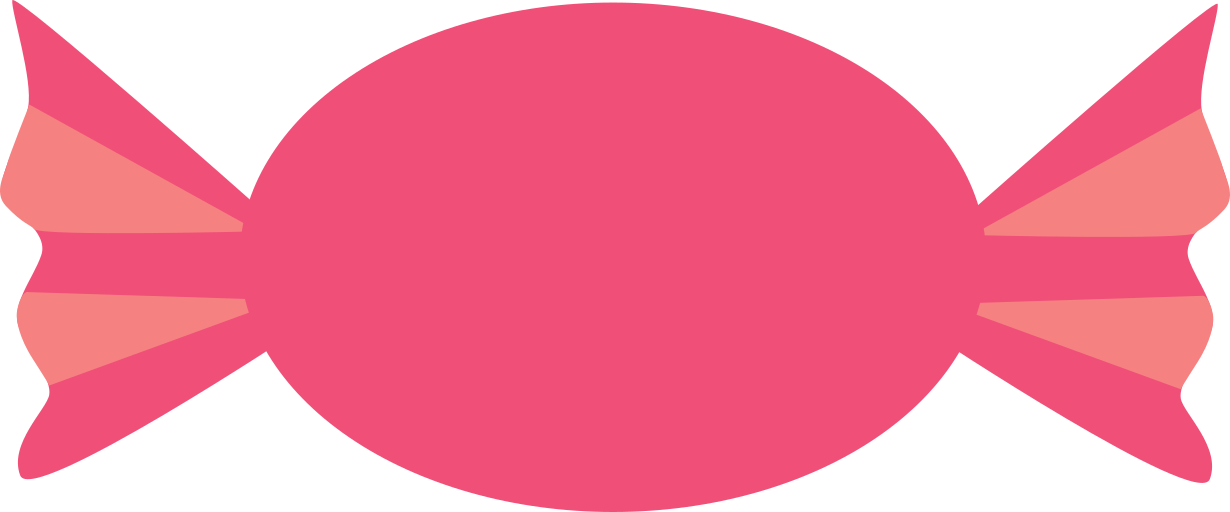
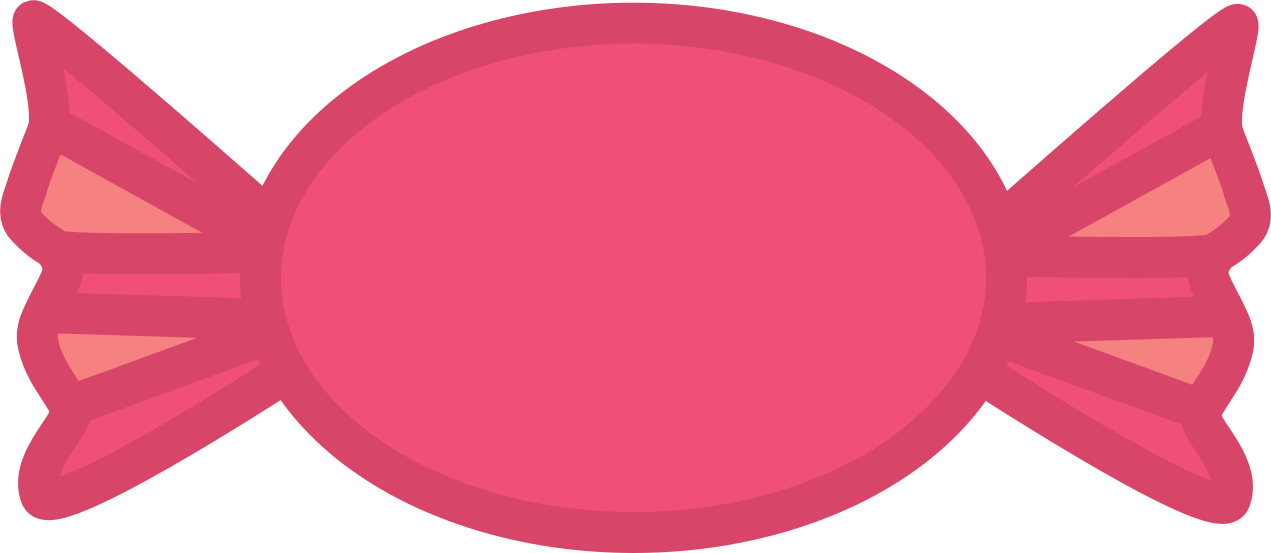
Main Menu + other UI
Main Menu button changes, Pause menu changes, All icons renovated

diff --git a/SilnikZTGK/CookingStation/Layers/GuiLayer/Panels/PauseMenuPanel.cpp b/SilnikZTGK/CookingStation/Layers/GuiLayer/Panels/PauseMenuPanel.cpp
@@ -61,36 +61,43 @@ void PauseMenuPanel::Draw(float baseScale) {
     // 1. Poszarzenie tła ekranu (lekki tint)
     Gui::Panel({ 0.0f, 0.0f }, { (float)windowSize.first, (float)windowSize.second }, { 0.05f, 0.05f, 0.05f, 0.75f }, 0.0f);
 
-    // Jeśli ustawienia są widoczne, rysuj TYLKO je i wyjdź
     if (m_SettingsPanel->IsVisible()) {
         m_SettingsPanel->Draw(baseScale);
         return;
     }
 
     // 2. Pobranie tekstur przez AssetManager
-    auto boardTex = AssetManager::GetTexture("assets://UI/cuttingBoardPrototypeVert.png");
-    auto playTex = AssetManager::GetTexture("assets://UI/playButton.png");
-    auto settingsTex = AssetManager::GetTexture("assets://UI/creditsButton.png");
-    auto exitTex = AssetManager::GetTexture("assets://UI/exitButton.png");
+    auto boardTex = AssetManager::GetTexture("assets://UI/cuttingBoard.png");
+    auto resumeTex = AssetManager::GetTexture("assets://UI/resumeButton.png");
+    auto settingsTex = AssetManager::GetTexture("assets://UI/settingsButtonCarrot.png");
+    auto menuTex = AssetManager::GetTexture("assets://UI/menuButton.png");
+    auto pausedTextTex = AssetManager::GetTexture("assets://UI/pausedText.png");
 
     glm::vec2 uv0 = { 0.0f, 1.0f };
     glm::vec2 uv1 = { 1.0f, 0.0f };
 
-    // NAPRAWA: Zamiast sztywnych wielkości, obliczamy idealne proporcje z tekstury (tak jak w MainMenu!)
     auto getAspectSize = [&](const std::shared_ptr<Texture>& tex, float targetHeight) -> glm::vec2 {
         if (tex && tex->GetRendererID() != 0) {
             float aspect = (float)tex->GetWidth() / (float)tex->GetHeight();
             return { targetHeight * aspect, targetHeight };
         }
-        return { targetHeight * 3.0f, targetHeight }; // Zabezpieczenie, gdyby brakło pliku
+        return { targetHeight * 3.0f, targetHeight };
         };
 
-    // 3. Rysowanie tła menu (Deska do krojenia) - dynamiczna szerokość chroniąca jakość
-    float boardHeight = 450.0f * baseScale;
+    // ===================================
+    // KONTROLA PRZESUNIĘCIA CAŁEGO MENU
+    // ===================================
+    // Ta zmienna obniża WSZYSTKO (deskę, napis i przyciski) proporcjonalnie w dół.
+    // Jeśli 60.0f to za mało, zmień na np. 80.0f lub 100.0f!
+    float visualOffsetY = 60.0f * baseScale;
+
+
+    // 3. Rysowanie tła menu (Deska do krojenia)
+    float boardHeight = 600.0f * baseScale; // Tutaj Twoja powiększona deska
     glm::vec2 boardSize = getAspectSize(boardTex, boardHeight);
 
     float boardX = (windowSize.first - boardSize.x) * 0.5f;
-    float boardY = (windowSize.second - boardSize.y) * 0.5f;
+    float boardY = (windowSize.second - boardSize.y) * 0.5f + visualOffsetY; // <-- OBNIŻAMY
 
     if (boardTex) {
         Renderer2D::DrawQuad({ boardX, boardY }, boardSize, boardTex->GetRendererID(), { 1.0f, 1.0f, 1.0f, 0.90f }, uv0, uv1);
@@ -99,17 +106,31 @@ void PauseMenuPanel::Draw(float baseScale) {
         Gui::Panel({ boardX, boardY }, boardSize, { 0.7f, 0.5f, 0.3f, 0.85f }, 20.0f);
     }
 
-    // 4. Parametry i pozycjonowanie przycisków 
-    float btnHeight = 85.0f * baseScale;
-    float btnGap = 20.0f * baseScale;
+    // 3.5 Rysowanie napisu "PAUSED"
+    if (pausedTextTex && pausedTextTex->GetRendererID() != 0) {
+        float textAspect = (float)pausedTextTex->GetWidth() / (float)pausedTextTex->GetHeight();
 
-    // Każdy przycisk wylicza swoją własną, idealną szerokość!
-    glm::vec2 playSize = getAspectSize(playTex, btnHeight);
+        float targetTextWidth = boardSize.x * 0.8f;
+        glm::vec2 textSize = { targetTextWidth, targetTextWidth / textAspect };
+
+        float textGap = 50.0f * baseScale;
+
+        float textX = (windowSize.first - textSize.x) * 0.5f;
+        float textY = boardY - textSize.y - textGap; // Ponieważ boardY zjechało w dół, napis automatycznie też!
+
+        Renderer2D::DrawQuad({ textX, textY }, textSize, pausedTextTex->GetRendererID(), { 1.0f, 1.0f, 1.0f, 1.0f }, uv0, uv1);
+    }
+
+    // 4. Parametry i pozycjonowanie przycisków 
+    float btnHeight = 115.0f * baseScale; // Twoje powiększone marchewki
+    float btnGap = 45.0f * baseScale;     // Twój większy odstęp
+
+    glm::vec2 playSize = getAspectSize(resumeTex, btnHeight);
     glm::vec2 settingsSize = getAspectSize(settingsTex, btnHeight);
-    glm::vec2 exitSize = getAspectSize(exitTex, btnHeight);
+    glm::vec2 exitSize = getAspectSize(menuTex, btnHeight);
 
     float totalH = (3.0f * btnHeight) + (2.0f * btnGap);
-    float startY = (windowSize.second - totalH) * 0.5f;
+    float startY = (windowSize.second - totalH) * 0.5f + visualOffsetY; // <-- OBNIŻAMY
 
     glm::vec2 mouse = Gui::GetMappedMousePos();
     auto isHov = [&](glm::vec2 p, glm::vec2 s) {
@@ -120,7 +141,9 @@ void PauseMenuPanel::Draw(float baseScale) {
     bool currentMouseState = Input::IsMouseButtonPressed(0);
     bool mouseClicked = currentMouseState && !s_LastMouseState;
 
-    // Funkcja lambdy rysująca grafikę bez niszczenia jej jakości
+    // ===================================
+    // NAPRAWIONA FUNKCJA PRZYCISKU (Z TINTEM)
+    // ===================================
     auto drawImageBtn = [&](auto tex, glm::vec2 basePos, glm::vec2 baseSize, float& scaleVar, bool hovered) {
         float targetScale = hovered ? 1.05f : 1.0f;
         scaleVar += (targetScale - scaleVar) * 15.0f * m_DeltaTime;
@@ -129,42 +152,47 @@ void PauseMenuPanel::Draw(float baseScale) {
         glm::vec2 offset = (baseSize - scaledSize) * 0.5f;
         glm::vec2 finalPos = basePos + offset;
 
+        // TINT - Lekko szary przy najechaniu, ciemniejszy przy kliknięciu
+        glm::vec4 tint = hovered ? glm::vec4(0.85f, 0.85f, 0.85f, 1.0f) : glm::vec4(1.0f, 1.0f, 1.0f, 1.0f);
+        if (hovered && currentMouseState) {
+            tint = glm::vec4(0.65f, 0.65f, 0.65f, 1.0f);
+        }
+
         if (tex) {
-            Renderer2D::DrawQuad(finalPos, scaledSize, tex->GetRendererID(), { 1.0f, 1.0f, 1.0f, 1.0f }, uv0, uv1);
+            // Zamiast podawać sztywne kolory, podajemy teraz nasz obliczony tint!
+            Renderer2D::DrawQuad(finalPos, scaledSize, tex->GetRendererID(), tint, uv0, uv1);
         }
         else {
-            Gui::Panel(finalPos, scaledSize, { 1.0f, 0.0f, 1.0f, 1.0f }, 10.0f);
+            Gui::Panel(finalPos, scaledSize, tint, 10.0f);
         }
 
         return hovered && mouseClicked;
         };
 
-    // ===================================
     // RYSOWANIE PRZYCISKÓW I OBSŁUGA LOGIKI
-    // ===================================
 
-    // RETURN (Centrujemy opierając się na dynamicznie obliczonej szerokości playSize.x)
+    // RETURN 
     float retX = (windowSize.first - playSize.x) * 0.5f;
     glm::vec2 retPos = { retX, startY };
     bool hoverRet = isHov(retPos, playSize);
-    if (drawImageBtn(playTex, retPos, playSize, m_ReturnBtnScale, hoverRet)) {
+    if (drawImageBtn(resumeTex, retPos, playSize, m_ResumeBtnScale, hoverRet)) {
         TogglePause();
     }
 
-    // SETTINGS (Centrujemy opierając się na dynamicznie obliczonej szerokości settingsSize.x)
+    // SETTINGS 
     float setX = (windowSize.first - settingsSize.x) * 0.5f;
     glm::vec2 setPos = { setX, startY + btnHeight + btnGap };
     bool hoverSet = isHov(setPos, settingsSize);
-    if (drawImageBtn(settingsTex, setPos, settingsSize, m_SettingsBtnScale, hoverSet)) {
+    if (drawImageBtn(settingsTex, setPos, settingsSize, m_SettingsBtnCarrotScale, hoverSet)) {
         m_SettingsPanel->SyncWithEngine();
         m_SettingsPanel->SetVisible(true);
     }
 
-    // EXIT (Centrujemy opierając się na dynamicznie obliczonej szerokości exitSize.x)
+    // EXIT 
     float exitX = (windowSize.first - exitSize.x) * 0.5f;
     glm::vec2 exitPos = { exitX, startY + 2.0f * (btnHeight + btnGap) };
     bool hoverExit = isHov(exitPos, exitSize);
-    if (drawImageBtn(exitTex, exitPos, exitSize, m_ExitBtnScale, hoverExit)) {
+    if (drawImageBtn(menuTex, exitPos, exitSize, m_MenuBtnScale, hoverExit)) {
         m_IsPaused = false;
         SceneManager::NewScene();
         Application::Get().GetEventBus().Publish(ShowMainMenuEvent{});

diff --git a/SilnikZTGK/CookingStation/Layers/MainMenuLayer/MainMenuLayer.cpp b/SilnikZTGK/CookingStation/Layers/MainMenuLayer/MainMenuLayer.cpp
@@ -27,6 +27,7 @@ void MainMenuLayer::OnAttach()
     m_SettingsBtnTex = std::make_shared<Texture>("assets://UI/settingsButton.png");
     m_CreditsBtnTex = std::make_shared<Texture>("assets://UI/creditsButton.png");
     m_ExitBtnTex = std::make_shared<Texture>("assets://UI/exitButton.png");
+    m_BoardTex = std::make_shared<Texture>("assets://UI/cuttingBoard.png");
 
     // Synchronizuj indeksy pending z aktualnie zastosowanymi ustawieniami
     auto& gs = GraphicsSettings::Get();
@@ -100,7 +101,6 @@ void MainMenuLayer::OnUpdate(Timestep ts) {
 
     float dt = ts.GetSeconds();
 
-    // ZMIANA: Lepsze skalowanie bazujące na obu wymiarach. Chroni przed wychodzeniem przycisków.
     float baseScale = std::min(m_ViewportWidth / 1920.0f, m_ViewportHeight / 1080.0f);
     baseScale = std::max(baseScale, 0.35f); // Bezpieczny limit dolny
 
@@ -135,37 +135,52 @@ void MainMenuLayer::DrawMainMenu(float baseScale, float dt) {
     float settingsPadding = 30.0f * baseScale;
     float settingsTargetHeight = 85.0f * baseScale;
 
-    // Obliczenie rozmiaru z zachowaniem proporcji
+    // Obliczanie rozmiaru
     auto getBtnSize = [&](const std::shared_ptr<Texture>& tex, float targetHeight) -> glm::vec2 {
-        if (tex && tex->GetRendererID() != 0) {
+        if (tex && tex->GetRendererID() != 0 && tex->GetHeight() > 0) {
             float aspect = (float)tex->GetWidth() / (float)tex->GetHeight();
             return { targetHeight * aspect, targetHeight };
         }
-        return { targetHeight * 4.0f, targetHeight }; // Fallback w razie braku tekstury
+        return { targetHeight * 4.0f, targetHeight }; // Fallback w razie braku pliku
         };
 
     glm::vec2 settingsSize = getBtnSize(m_SettingsBtnTex, settingsTargetHeight);
     glm::vec2 settingsPos = { settingsPadding, settingsPadding };
 
-    // Główne przyciski
-    float mainBtnHeight = 110.0f * baseScale;
+    // Wymiary przycisków głównego menu
+    float mainBtnHeight = 130.0f * baseScale;
     float btnGap = 45.0f * baseScale;
-    float blockLeft = m_ViewportWidth * 0.1125f;
-    float blockTop = m_ViewportHeight * 0.435f;
 
     glm::vec2 playSize = getBtnSize(m_PlayBtnTex, mainBtnHeight);
     glm::vec2 creditsSize = getBtnSize(m_CreditsBtnTex, mainBtnHeight);
     glm::vec2 exitSize = getBtnSize(m_ExitBtnTex, mainBtnHeight);
 
-    glm::vec2 playPos = { blockLeft, blockTop };
-    glm::vec2 creditsPos = { blockLeft, blockTop + (mainBtnHeight + btnGap) };
-    glm::vec2 exitPos = { blockLeft, blockTop + (mainBtnHeight + btnGap) * 2.0f };
+    float totalH = (3.0f * mainBtnHeight) + (2.0f * btnGap);
+
+    float boardHeight = 620.0f * baseScale;
+    glm::vec2 boardSize = getBtnSize(m_BoardTex, boardHeight);
+
+    float boardX = m_ViewportWidth * 0.07f;  
+    float boardY = m_ViewportHeight * 0.37f;  
+
+    if (m_BoardTex && m_BoardTex->GetRendererID() != 0) {
+        Renderer2D::DrawQuad({ boardX, boardY }, boardSize, m_BoardTex, { 1.0f, 1.0f, 1.0f, 1.00f }, { 0.0f, 1.0f }, { 1.0f, 0.0f });
+    }
+    else {
+        Gui::Panel({ boardX, boardY }, boardSize, { 0.10f, 0.10f, 0.12f, 0.85f }, 20.0f * baseScale);
+    }
+
+	// Pozycjonowanie przycisków na desce
+    float startY = boardY + (boardSize.y - totalH) * 0.5f;
+
+    glm::vec2 playPos = { boardX + (boardSize.x - playSize.x) * 0.5f, startY };
+    glm::vec2 creditsPos = { boardX + (boardSize.x - creditsSize.x) * 0.5f, startY + mainBtnHeight + btnGap };
+    glm::vec2 exitPos = { boardX + (boardSize.x - exitSize.x) * 0.5f, startY + 2.0f * (mainBtnHeight + btnGap) };
 
     // Hover i animacje
     glm::vec2 mouse = Gui::GetMappedMousePos();
     auto isHov = [&](glm::vec2 p, glm::vec2 s) {
-        return mouse.x >= p.x && mouse.x <= p.x + s.x &&
-            mouse.y >= p.y && mouse.y <= p.y + s.y;
+        return mouse.x >= p.x && mouse.x <= p.x + s.x && mouse.y >= p.y && mouse.y <= p.y + s.y;
         };
 
     bool hoverSettings = isHov(settingsPos, settingsSize);
@@ -179,12 +194,10 @@ void MainMenuLayer::DrawMainMenu(float baseScale, float dt) {
     m_CreditsBtnScale += ((hoverCredits ? 1.05f : 1.0f) - m_CreditsBtnScale) * dt * animSpeed;
     m_ExitBtnScale += ((hoverExit ? 1.05f : 1.0f) - m_ExitBtnScale) * dt * animSpeed;
 
-    // Zębatka na samej górze
     if (DrawImageButton(m_SettingsBtnTex, settingsPos, settingsSize, m_SettingsBtnScale, baseScale, hoverSettings)) {
         m_SettingsOpen = true;
     }
 
-    // Blok menu 
     if (DrawImageButton(m_PlayBtnTex, playPos, playSize, m_PlayBtnScale, baseScale, hoverPlay)) {
         PlayGame();
     }
@@ -194,7 +207,7 @@ void MainMenuLayer::DrawMainMenu(float baseScale, float dt) {
     }
 
     if (DrawImageButton(m_ExitBtnTex, exitPos, exitSize, m_ExitBtnScale, baseScale, hoverExit)) {
-        // Logika exit
+		// Logika wyjścia z gry
     }
 }
 

diff --git a/SilnikZTGK/CookingStation/Layers/GuiLayer/Panels/PauseMenuPanel.h b/SilnikZTGK/CookingStation/Layers/GuiLayer/Panels/PauseMenuPanel.h
@@ -19,9 +19,9 @@ private:
     bool m_IsPaused = false;
     float m_DeltaTime = 0.0f;
 
-    float m_ReturnBtnScale = 1.0f;
-    float m_SettingsBtnScale = 1.0f;
-    float m_ExitBtnScale = 1.0f;
+    float m_SettingsBtnCarrotScale = 1.0f;
+    float m_ResumeBtnScale = 1.0f;
+    float m_MenuBtnScale = 1.0f;
 
     // Panel ustawień jest "Dzieckiem" panelu pauzy
     std::unique_ptr<SettingsMenuPanel> m_SettingsPanel;

diff --git a/SilnikZTGK/CookingStation/Layers/MainMenuLayer/MainMenuLayer.h b/SilnikZTGK/CookingStation/Layers/MainMenuLayer/MainMenuLayer.h
@@ -41,6 +41,7 @@ private:
 
     // --- Tekstury / wymiary ---
     std::shared_ptr<Texture> m_Background;
+    std::shared_ptr<Texture> m_BoardTex;
 
     std::shared_ptr<Texture> m_PlayBtnTex;
     std::shared_ptr<Texture> m_SettingsBtnTex;
